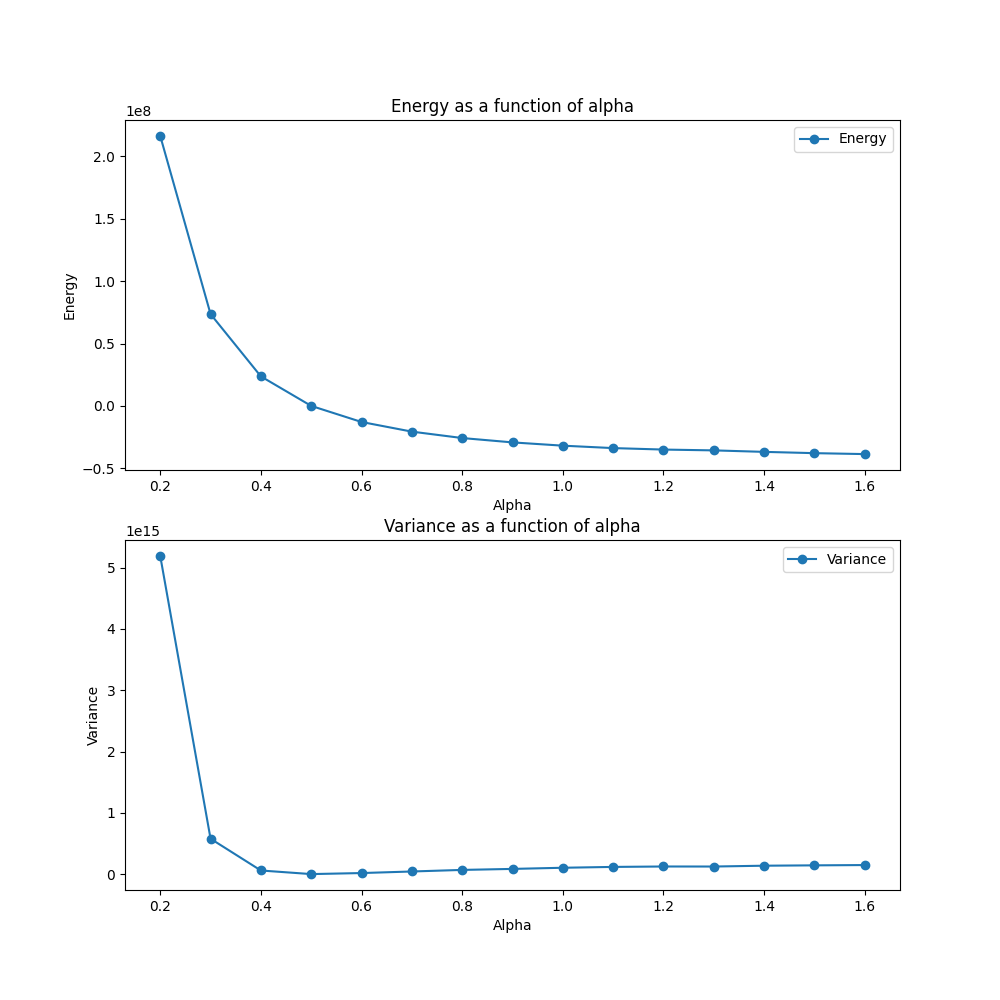
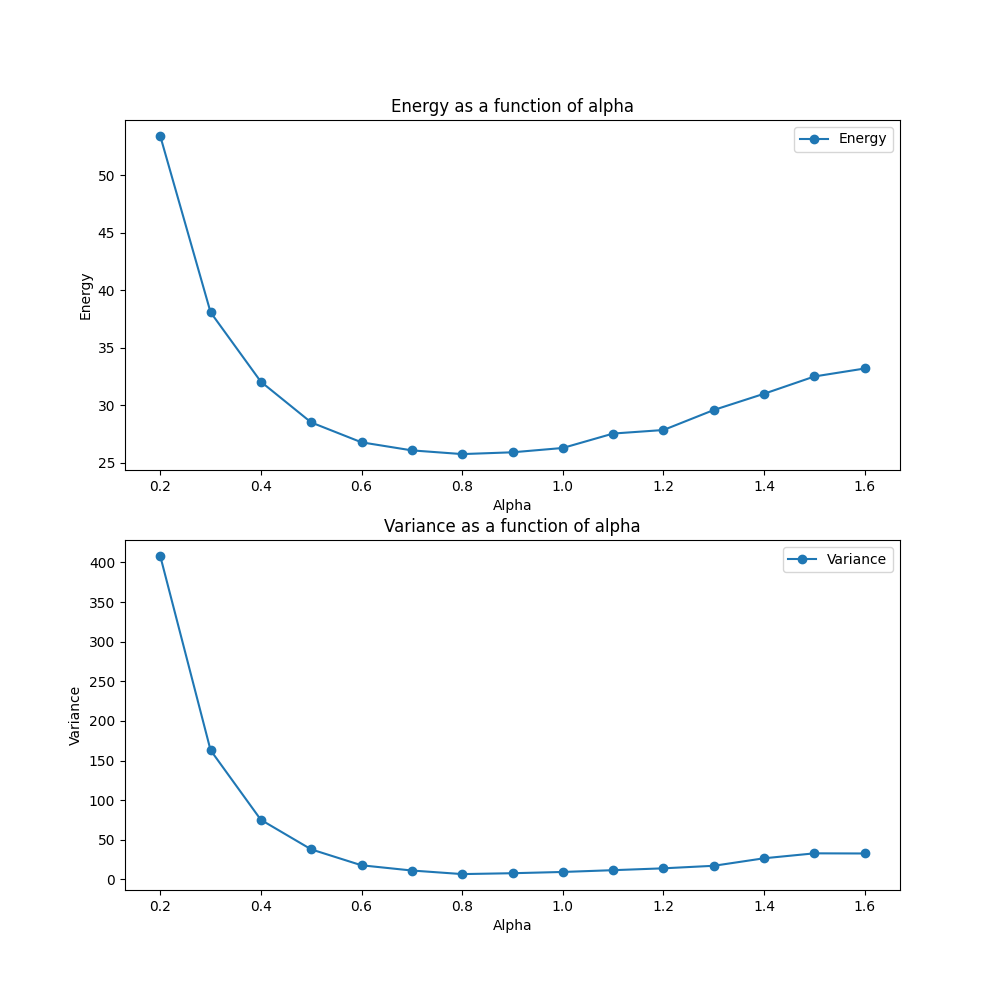
a

diff --git a/src/samplers/metro_hastings.py b/src/samplers/metro_hastings.py
@@ -80,7 +80,7 @@ class MetropolisHastings(Sampler):
         accept = accept.reshape(-1, 1)
 
         # Update positions based on acceptance
-        new_positions, new_logp, n_accepted = self.accept_fn(n_accepted=n_accepted, accept=accept, initial_positions=initial_positions, proposed_positions=proposed_positions, log_psi_current=prob_current, log_psi_proposed=prob_proposed)
+        new_positions, new_logp, n_accepted = self.accept_func(n_accepted=n_accepted, accept=accept, initial_positions=initial_positions, proposed_positions=proposed_positions, log_psi_current=prob_current, log_psi_proposed=prob_proposed)
 
         #print("new_positions", new_positions)
         
@@ -109,8 +109,19 @@ class MetropolisHastings(Sampler):
         G_reverse = -reverse_move / (4 * D * delta_t)
 
         return G_forward, G_reverse
+    
+    def accept_func(self, n_accepted, accept, initial_positions, proposed_positions, log_psi_current, log_psi_proposed):
+        # accept is a boolean array, so you can use it to index directly
+        new_positions = np.where(accept, proposed_positions, initial_positions)
+        new_logp = np.where(accept, log_psi_proposed, log_psi_current)
+
+        # Count the number of accepted moves
+        n_accepted += np.sum(accept)
+
+        return new_positions, new_logp, n_accepted
 
 
+"""
     def accept_jax(self, n_accepted, accept, initial_positions, proposed_positions, log_psi_current, log_psi_proposed):
             # Use where to choose between the old and new positions/probabilities based on the accept array
             new_positions = jnp.where(accept, proposed_positions, initial_positions)
@@ -131,4 +142,6 @@ class MetropolisHastings(Sampler):
 
         return new_positions, new_logp, n_accepted
         
-       
+"""
+
+    

diff --git a/src/simulation_scripts/config.py b/src/simulation_scripts/config.py
@@ -1,15 +1,15 @@
 # Config
 output_filename = "../data/vmc_playground.csv"
 
-nparticles = 1
-dim = 1
+nparticles = 11
+dim = 3
 nsamples =   int(2**12) #  2**18 = 262144
 scale = 1 + dim*0.1
 nchains = 1# number of Markov chains. When you parallelize, you can set this to the number of cores. Note you will have to implement this yourself.
 eta = 0
 training_cycles = 1# this is cycles for the ansatz
 mcmc_alg = "mh" # either "mh" or "m"
-backend = "numpy" # or "numpy" but jax should go faster because of the jit
+backend = "jax" # or "numpy" but jax should go faster because of the jit
 optimizer = "gd"
 hamiltonian = "ho" # either ho or eo 
 batch_size = 10

diff --git a/src/physics/hamiltonians.py b/src/physics/hamiltonians.py
@@ -120,7 +120,12 @@ class EllipticOscillator(HarmonicOscillator):
 
         #print(" laplacian shape ", self.backend.sum(self.alg_int.laplacian(r)).shape)
 
-        laplacian = self.backend.sum(self.alg_int.laplacian(r))
+        #laplacian = self.backend.sum(self.alg_int.laplacian(r)) this was more efficient tho :(
+        
+        laplacian = 0
+        for i in range(self._N):
+            laplacian += self.backend.sum(self.alg_int.laplacian(r[i]))
+        
         
         # Correct calculation of local energy
         local_energy = -0.5 * laplacian + pe

diff --git a/src/qs/models/vmc.py b/src/qs/models/vmc.py
@@ -237,6 +237,7 @@ class VMC:
         # print("ANALITICAL")
         # For a Gaussian wavefunction in log domain, the Laplacian is simply 2*alpha*d - 4*alpha^2*sum(r_i^2),
         # where d is the number of dimensions.
+        r = r.reshape(-1, self._dim)  # Reshape to (n_particles, n_dimensions)
         d = r.shape[1]  # Number of dimensions
         r2 =  self.backend.sum(r**2, axis=1)
         
